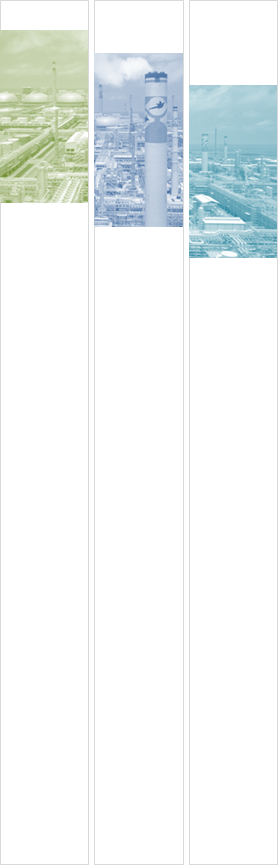
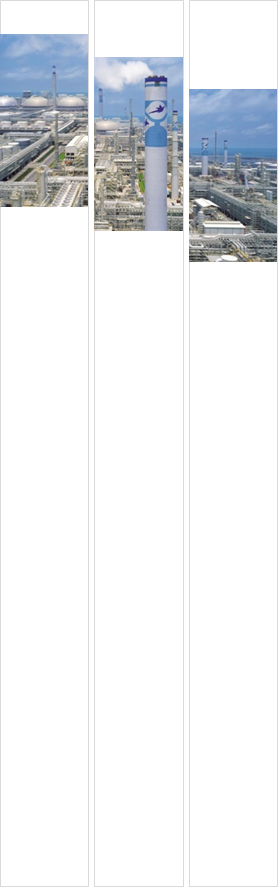
UI Fix

Changed region(s): [[0.0, 0.0312, 1.0, 0.3121]]

diff --git a/app/views/outline.scala.html b/app/views/outline.scala.html
@@ -49,7 +49,8 @@
 
 	<!--  Highchart -->
 	<script src='@routes.Assets.at("js/highcharts/highcharts.js")'></script>
-	<script src='@routes.Assets.at("js/highcharts/modules/exporting.js")'></script>
+	<!-- <script src='@routes.Assets.at("js/highcharts/modules/exporting.js")'></script>
+	-->
 	<!-- Morris Charts CSS -->
     
 	
@@ -79,7 +80,7 @@
     </script>
 </head>
 
-<body>
+<body class="skin-1">
 <!--New UI -->
 <div id="wrapper">
 
@@ -88,7 +89,7 @@
         <ul class="nav" id="side-menu">
             <li class="nav-header">
                 <div class="dropdown profile-element"> <span>
-                            <img alt="image" class="img-circle" src='@routes.Assets.at("images/logo.png")' height='70%' width='70%' />
+                             <img alt="image" class="img-circle" src='@routes.Assets.at("images/logo1.png")' height='60%' width='60%' />
                              </span>
                     <a data-toggle="dropdown" class="dropdown-toggle" href="#">
                             <span class="clear"> <span class="block m-t-xs"> <strong class="font-bold">@userID</strong>
@@ -127,7 +128,7 @@
                 </ul>
             </li>
             <li>
-                <a href="#"><i class="fa fa-table"></i> <span class="nav-label">報表查詢 </span><span class="label label-warning pull-right">16/24</span></a>
+                <a href="#"><i class="fa fa-table"></i> <span class="nav-label">報表查詢 </span></a>
                 <ul class="nav nav-second-level">
                     <li><a href="#" onClick="loadPage('/report/@ReportType.MonitorReport','報表查詢','監測報表')">監測報表</a></li>
                     <li><a href="#">測站數據比較報表</a></li>
@@ -146,7 +147,7 @@
                 </ul>
             </li>
             <li>
-                <a href="#"><i class="fa fa-desktop"></i> <span class="nav-label">系統管理</span>  <span class="pull-right label label-primary">SPECIAL</span></a>
+                <a href="#"><i class="fa fa-desktop"></i> <span class="nav-label">系統管理</span></a>
                 <ul class="nav nav-second-level">
                     <li><a href="#">管理權限</a></li>
                     <li><a href="#" onClick="loadPage('/MonitorTypeConfig','系統管理','測項參數')">測項參數</a></li>
@@ -167,7 +168,9 @@
         <div class="navbar-header">
         	<span style="display:inline">
         		<a class="navbar-minimalize minimalize-styl-2 btn btn-primary " href="#"><i class="fa fa-bars"></i> </a>
-            	<img src='@routes.Assets.at("images/title/logo.png")' width='458' height='38'>
+				
+            	<img src='@routes.Assets.at("images/title.png")' width='70%' height='70%'>
+				
         	</span>            
         </div>
         <ul class="nav navbar-top-links navbar-right">
@@ -224,20 +227,11 @@
 
     </nav>
 </div>
-<div class="row wrapper border-bottom white-bg page-heading">
+<div class="row wrapper border-bottom white-bg">
     <div class="col-lg-10">
-        <h2 id='breadcrumb-title'>即時畫面</h2>
-        <ol class="breadcrumb">
-            <li>
-                <a href="#" id='breadcrumb-root'>即時資訊</a>
-            </li>
-            <li class="active">
-                <strong id='breadcrumb-level1'>即時畫面</strong>
-            </li>
-        </ol>
-    </div>
-    <div class="col-lg-2">
-
+		
+        <h5 id='breadcrumb-title'>即時畫面</h2>
+		
     </div>
 </div>
 

diff --git a/app/views/login.scala.html b/app/views/login.scala.html
@@ -14,6 +14,8 @@
 
     <!-- Bootstrap Core CSS -->
     <link href="@routes.Assets.at("css/bootstrap.min.css")" rel="stylesheet">
+	<link href='@routes.Assets.at("css/style.css")' rel="stylesheet">
+	<link href='@routes.Assets.at("css/aqm.css")' rel="stylesheet">
 
     <!-- Custom Fonts -->
     <link href="@routes.Assets.at("font-awesome/css/font-awesome.min.css")" rel="stylesheet" type="text/css">
@@ -39,10 +41,10 @@
     <div class="container-fluid">
         <div class="row">
 			<div class="col-lg-4">
-				<img src="@routes.Assets.at("images/left.png")" class="img-responsive">
+				<img src="@routes.Assets.at("images/bbb.png")" class="img-responsive">
 			</div>
             <div class="col-lg-4">
-                <div class="login-panel panel panel-default">
+                <div class="login-panel panel panel-primary">
                     <div class="panel-heading">
                         <h2>麥寮廠區空氣品質及氣象監測系統</h2>                        
                     </div>
@@ -80,7 +82,7 @@
                 </div>
             </div>
 			<div class="col-lg-4" align="right" >
-				<img src="@routes.Assets.at("images/right.png")" class="img-responsive">
+				<img src="@routes.Assets.at("images/aaa.png")" class="img-responsive">
 			</div>
         </div>
     </div>

diff --git a/public/css/style.css b/public/css/style.css
@@ -20,16 +20,16 @@ h2 {
   font-size: 24px;
 }
 h3 {
-  font-size: 16px;
+  font-size: 18px;
 }
 h4 {
-  font-size: 14px;
+  font-size: 16px;
 }
 h5 {
-  font-size: 12px;
+  font-size: 14px;
 }
 h6 {
-  font-size: 10px;
+  font-size: 12px;
 }
 h3,
 h4,
@@ -88,7 +88,7 @@ h5 {
   box-shadow: 0 0 3px rgba(86, 96, 117, 0.7);
   display: none;
   float: left;
-  font-size: 12px;
+  font-size: 14px;
   left: 0;
   list-style: none outside none;
   padding: 0;
@@ -2890,7 +2890,7 @@ a.forum-item-title:hover {
 body {
   font-family: "open sans", "Helvetica Neue", Helvetica, Arial, sans-serif;
   background-color: #2f4050;
-  font-size: 13px;
+  font-size: 18px;
   color: #676a6c;
   overflow-x: hidden;
 }

diff --git a/app/views/index.scala.html b/app/views/index.scala.html
@@ -392,6 +392,8 @@ function getRealtimChart(id, monitorType){
 		type : "GET",
 		dataType : "json",
 		success : function(result) {
+		    result.legend = { enabled: false};
+			result.title={text:null};
 			$(id).highcharts(result);
 		},
 		error : function(xhr, status, errorThrown) {

diff --git a/public/css/aqm.css b/public/css/aqm.css
@@ -15,9 +15,12 @@
 		
 	.realtimeChart_container{
     	position: relative;
-    	width: 100%;
-    	padding-bottom: 100%;
+    	width: 120%;
 	}
+
+.login-panel {
+    margin-top: 25%;
+}
 	
 .PSI1 {
 	COLOR: #000000; BACKGROUND-COLOR: #00ff00;
